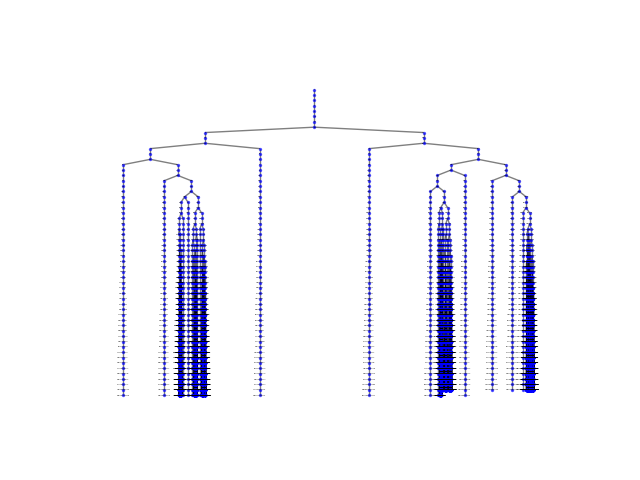
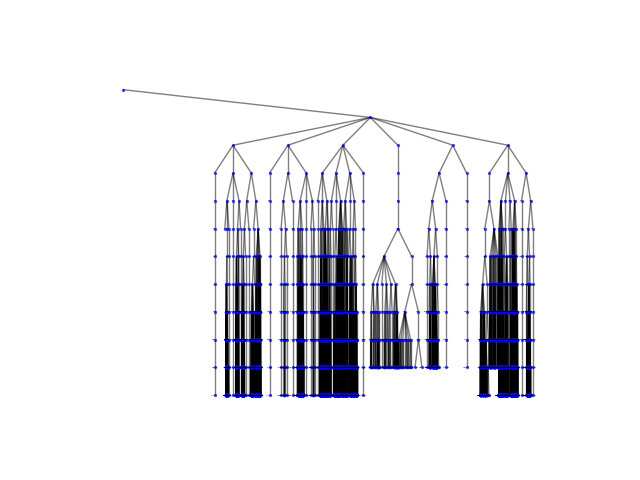
Generalizations of functions in accordance with research

Changed region(s): [[0.1875, 0.1875, 0.8438, 0.8438], [0.1875, 0.1875, 0.4062, 0.2188]]

diff --git a/Collatz_Tree.py b/Collatz_Tree.py
@@ -2,42 +2,47 @@ from Graph import Graph
 from Queue import Queue
 import networkx as nx
 import matplotlib as plt
+from sympy import isprime, primepi, prevprime, nextprime
+from itertools import combinations
 
-#Pseudocode algorithm
-# Structures:
-    #1: Graph built with dict and sets
-    #2: queue for frontier nodes
-
-#Start at root 1 and take 2 functions
-    #first function: 2x
-    #Second function: if x-1 is divisible by k, then (x - 1)/k
-
-#If the second function is used, then add that node to the frontier queues
-
-#Discontinue when frontier is of a certain size
-
-def collatz_tree(M, k = 3):
+def general_collatz_tree(M, k = 3):
+    '''I am SO truly sorry for the running time
+    of this algorithm. It has no choice but to be 
+    exponential due to tree growth
+    Generalization for all Collatz Trees'''
     tree = Graph()
     tree.add_vertex(1)
     frontier = Queue()
     frontier.push(1)
+    primes = []
+    p = k
+    while True:
+        try:
+            p = prevprime(p)
+        except:
+            break
+        primes.append(p)
     while len(frontier) < M:
         x = frontier.pop()
-        if (x - 1) % k == 0:
+        for i in range(len(primes) + 1):
+            for tup in combinations(primes,i):
+                y = x
+                for prime in tup:
+                    y = y*prime
+                if y not in tree:
+                    tree.add_vertex(y)
+                    tree.add_edge(x, y)
+                    frontier.push(y)
+        if (x - 1)%k == 0:
             y = (x - 1)//k
             if y not in tree:
                 tree.add_vertex(y)
                 tree.add_edge(x, y)
                 frontier.push(y)
-        z = 2*x
-        if z not in tree:
-            tree.add_vertex(z)
-            tree.add_edge(x, z)
-            frontier.push(z)
     return tree
 
 def hierarchy_pos(G, root, width=1., vert_gap = 0.2, vert_loc = 0, xcenter = 0.5, 
-                  pos = None, parent = None):
+                  pos = None, parent = None, children = 2):
     '''If there is a cycle that is reachable from root, then this will see infinite recursion.
        G: the graph
        root: the root node of current branch
@@ -57,7 +62,7 @@ def hierarchy_pos(G, root, width=1., vert_gap = 0.2, vert_loc = 0, xcenter = 0.5
         neighbors.remove(parent)  #if directed, then parent not in neighbors.
     if len(neighbors)!=0:
         dx = width/len(neighbors) 
-        nextx = xcenter - width/2 - dx/2
+        nextx = xcenter - width/children - dx/children
         for neighbor in neighbors:
             nextx += dx
             pos = hierarchy_pos(G,neighbor, width = dx, vert_gap = vert_gap, 
@@ -65,13 +70,16 @@ def hierarchy_pos(G, root, width=1., vert_gap = 0.2, vert_loc = 0, xcenter = 0.5
                                 parent = root)
     return pos
 
-K = 7
+
+
+K = 3
+CHILDREN = 2**(primepi(K - 1))
 N = 10000
 FONT_SIZE = 0
 NODE_SIZE = 2
 
 list_ = []
-graph = collatz_tree(N, K)
+graph = general_collatz_tree(N, K)
 
 Matching_Graph = nx.Graph()
 for Vertex in graph.edge_list:
@@ -82,7 +90,7 @@ for Vertex in graph.edge_list:
     for other in graph.edge_list[Vertex]:
         Matching_Graph.add_edge(Vertex, other)
 
-pos = hierarchy_pos(Matching_Graph, 0, width=1000, vert_gap=100)
+pos = hierarchy_pos(Matching_Graph, 0, width=1000, vert_gap=100, children= CHILDREN)
 
 ###DRAW NODES
 nx.draw_networkx_nodes(Matching_Graph, pos,

diff --git a/Check_Collatz.py b/Check_Collatz.py
@@ -1,33 +1,16 @@
 from sympy import isprime, primepi, prevprime, nextprime
+from math import inf
 
-def check_collatz(term, k = 3):
-    """Simple function to check if a number
-    falls under the collatz conjecture."""
-    current = term
-    repeat_check = {current}
-    while True:
-        #print(current)
-        if current % 2 == 0:
-            current = current//2
-        else:
-            current = k*current + 1
-        if current in repeat_check:
-            return False
-        repeat_check.add(current)
-        if current == 1:
-            return True
-        if current > 10**1000:
-            return
 
-def check_general_collatz(term, k = 3):
+def check_general_collatz(term, k = 3, upper_bound = 10**1000):
     """Generaliztion proposed by 
     Zhang Zhongfu and Yang Shiming
     and found in
     http://web.mit.edu/rsi/www/pdfs/papers/2004/2004-lesjohn.pdf"""
     current = term
     repeat_check = {current}
-    divisor_success = False
     while True:
+        divisor_success = False
         p = k
         while True:
             try:
@@ -44,16 +27,62 @@ def check_general_collatz(term, k = 3):
         repeat_check.add(current)
         if current == 1:
             return True
-        if current > 10**1000:
-            return
+        if current > upper_bound:
+            return None
+
+
+def general_collatz_trajectory(term, k = 3, upper_bound = 10**1000):
+    """Generaliztion proposed by 
+    Zhang Zhongfu and Yang Shiming
+    and found in
+    http://web.mit.edu/rsi/www/pdfs/papers/2004/2004-lesjohn.pdf
+    Returns a list of numbers in the collatz
+    tree from term -> 1, the cycle, or the terms less than the upper bound
+    Simple check for each through last term
+    if convergent: last term = 1
+    if cycle: last term = first term
+    if violate upper bound: last term is inf"""
+    current = term
+    trajectory = [current]
+    while True:
+        divisor_success = False
+        p = k
+        while True:
+            try:
+                p = prevprime(p)
+            except:
+                break
+            if current % p == 0:
+                divisor_success = True
+                current = current//p
+        if not divisor_success:
+            current = k*current + 1
+        if current in trajectory:
+            trajectory.append(current)
+            return trajectory
+        trajectory.append(current)
+        if current == 1:
+            return trajectory
+        if current > upper_bound:
+            trajectory.append(inf)
+            return trajectory
+
+
+def check_range(start, end, k = 3):
+    collatz_dict = {}
+    for i in range(start, end + 1):
+        collatz_dict[i] = check_general_collatz(i, k)
+    return collatz_dict
 
 
 if __name__ == "__main__":
-    for i in range(1, 1001):
-        if check_general_collatz(i, 5):
-            print(i, "SUCCESS")
-        else:
-            pass
-            #print(i, "FAILED")
-
-    print(check_general_collatz(78, 5))
+    print(37*7 + 1)
+    print(general_collatz_trajectory(37,7))
+    print(check_general_collatz(20, k = 13))
+    start = 10
+    end = 100
+    collatz_range = check_range(start, end, k = 11)
+    for i in range(start, end+1):
+        #print(collatz_range[i])
+        if not collatz_range[i]:
+            print("NUMBER FAILED")

diff --git a/Graph.py b/Graph.py
@@ -20,9 +20,7 @@ class Graph(object):
         return string
 
     def __contains__(self, elem):
-        if elem in self.edge_list:
-            return True
-        return False
+        return (elem in self.edge_list)
 
     def add_vertex(self, label):
         if label in self.edge_list:
